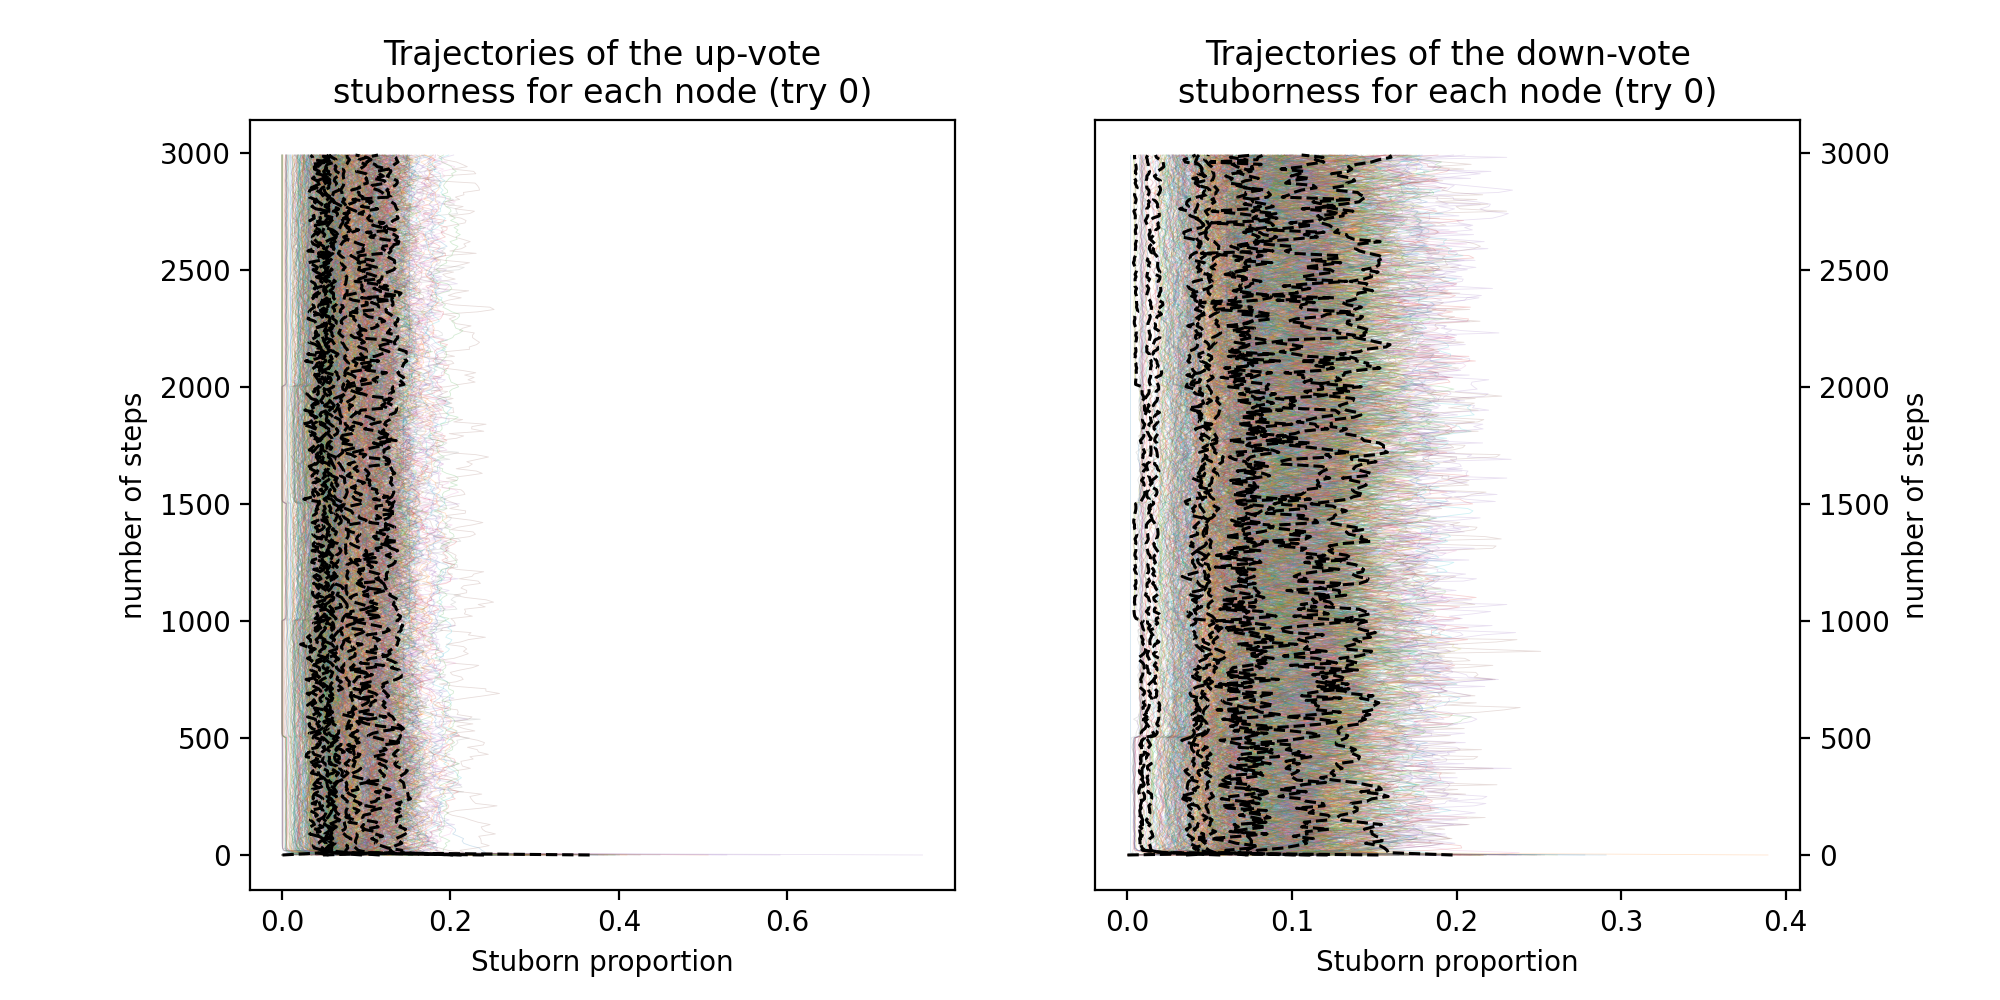
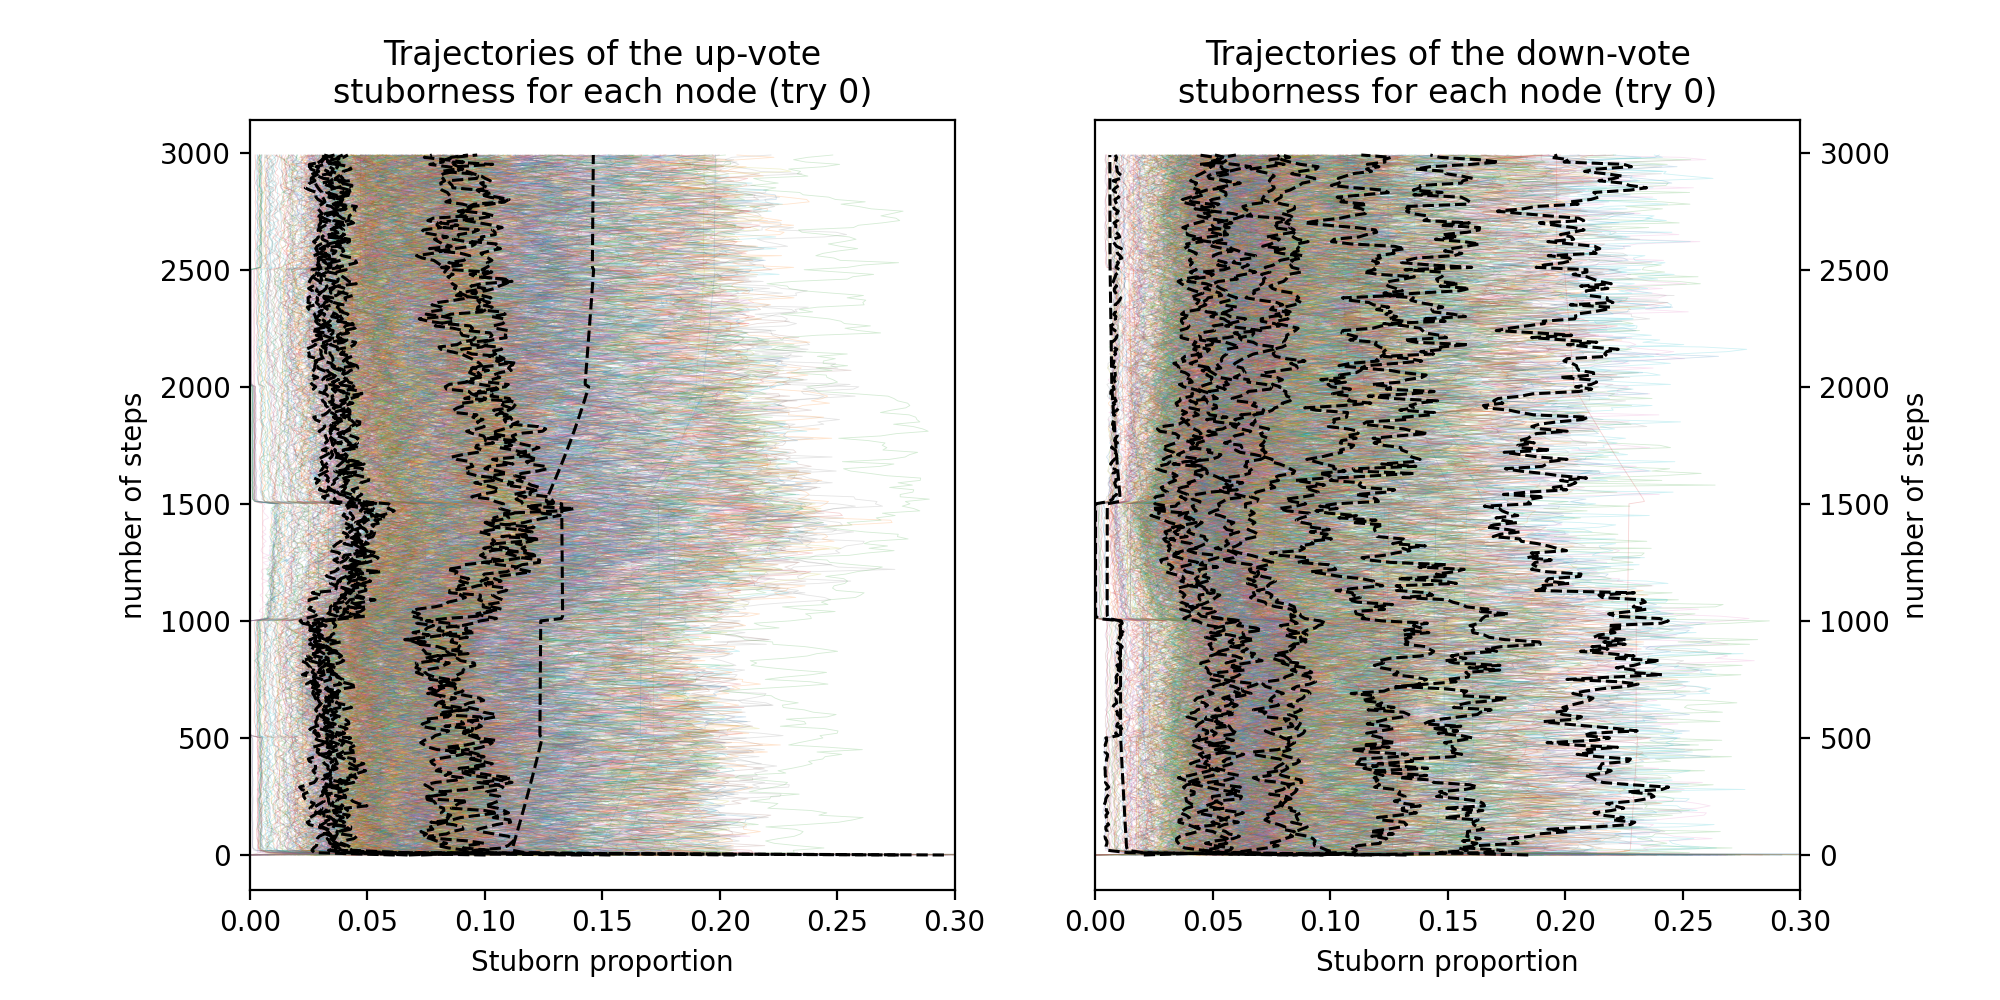
update

diff --git a/computation/simulation_1.cpp b/computation/simulation_1.cpp
@@ -13,9 +13,9 @@
 #include "modular_election_simulation_framework/src/util/util.hpp"
 
 
-const size_t N_select               = 10;
+const size_t N_select               = 15;
 const double dt                     = 0.2;
-const double overtoon_multiplier    = 0.07;
+const double overtoon_multiplier    = 0.1;
 const double frustration_multiplier = 0.01;
 
 const size_t N_nodes    = 800;
@@ -56,9 +56,9 @@ int main() {
 	std::vector<std::vector<size_t>> counties = BPsimulation::random::random_graphAgnostic_partition_graph(network, n_con);
 	BPsimulation::io::write_counties_to_file(counties, file);
 
-	BPsimulation::random::network_randomize_agent_states_county(network, counties[0], 0.2, 0.2, 150, 50,  std::vector<double>({0.6, 0.4, 0.1, 0.2}));
-	BPsimulation::random::network_randomize_agent_states_county(network, counties[1], 0.2, 0.1, 150, 100, std::vector<double>({0.4, 0.6, 0.1, 0.2}));
-	BPsimulation::random::network_randomize_agent_states_county(network, counties[2], 0.1, 0.2, 400, 100, std::vector<double>({0.5, 0.5, 0.1, 0.1}));
+	BPsimulation::random::network_randomize_agent_states_county(network, counties[0], 0.1,  0.25, 150, 50,  std::vector<double>({0.3, 0.7, 0.15, 0.15}));
+	BPsimulation::random::network_randomize_agent_states_county(network, counties[1], 0.25, 0.1,  150, 75,  std::vector<double>({0.7, 0.3, 0.15, 0.15}));
+	BPsimulation::random::network_randomize_agent_states_county(network, counties[2], 0.14, 0.15, 200, 100, std::vector<double>({0.5, 0.5, 0.1,  0.1}));
 	BPsimulation::io::write_agent_states_to_file(network, agent_full_serializer, file, "/initial_state");
 
 

diff --git a/postprocessing/postprocessing_simulation_1.py b/postprocessing/postprocessing_simulation_1.py
@@ -201,6 +201,11 @@ for i in range(N_try):
 	X_eq_vs_election_results.extend(election_results)
 	Y_eq_vs_election_results.extend(simulation_data[i, -1, 1, :] + simulation_data[i, -1, 3, :])
 
+for i,x_target in enumerate([-1.5, -0.5, 0.5, 1.5]):
+	y_mean = np.mean([y for (x, y) in zip(X_eq_vs_election_results, Y_eq_vs_election_results) if x == x_target])
+	ax4.plot([x_target,], [y_mean,],
+		"or", label="mean proportion" if i==0 else None)
+
 reg_eq_vs_election_results = LinearRegression().fit(
 	np.expand_dims(X_eq_vs_election_results, 1),
 	np.expand_dims(Y_eq_vs_election_results, 1))
@@ -243,9 +248,14 @@ for i,node in enumerate(nodes):
 		ax1.plot(simulation_data[0, :, 3, node], iterations_saved,
 		         "-", alpha=0.2, linewidth=0.3)
 
+ax1.set_xlim((0, 0.3))
 ax1.set_title("Trajectories of the up-vote\nstuborness for each node (try 0)")
 ax1.set_ylabel("number of steps")
 ax1.set_xlabel("Stuborn proportion")
+
+""" -------------------------------------------------------
+-----------------------------------------------------------
+------------------------------------------------------- """
 
 for i,node in enumerate(nodes):
 	if N_nodes-i <= 10:
@@ -255,6 +265,7 @@ for i,node in enumerate(nodes):
 		ax2.plot(simulation_data[0, :, 2, node], iterations_saved,
 		         "-", alpha=0.2, linewidth=0.3)
 
+ax2.set_xlim((0, 0.3))
 ax2.yaxis.set_label_position("right")
 ax2.yaxis.tick_right()
 ax2.set_title("Trajectories of the down-vote\nstuborness for each node (try 0)")
